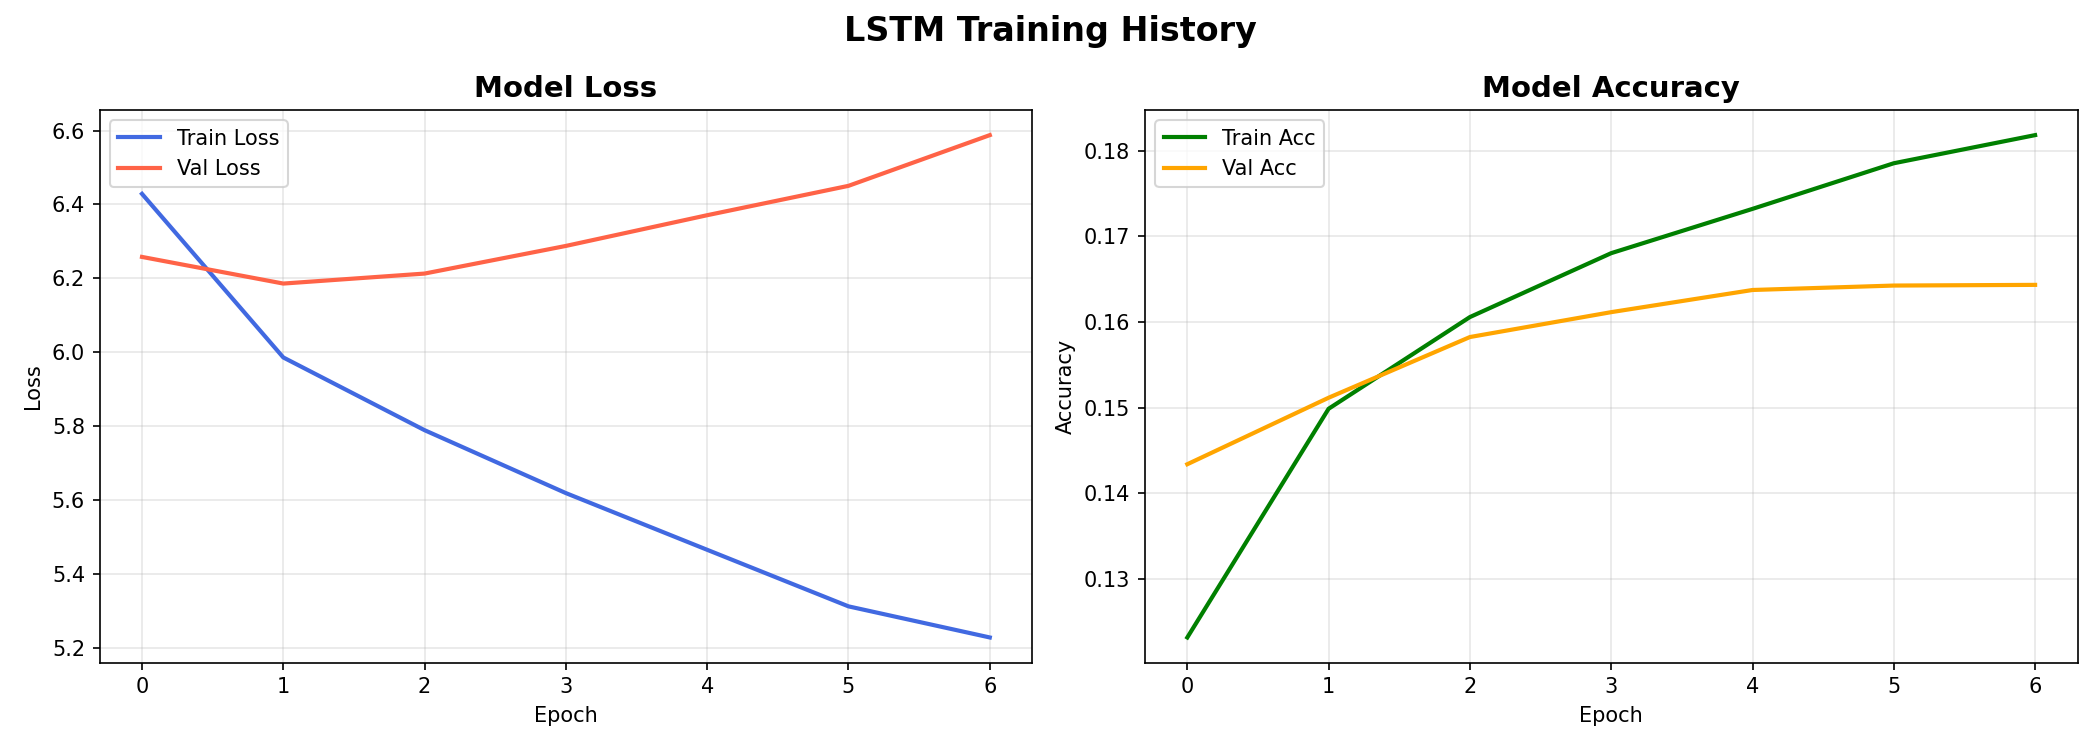
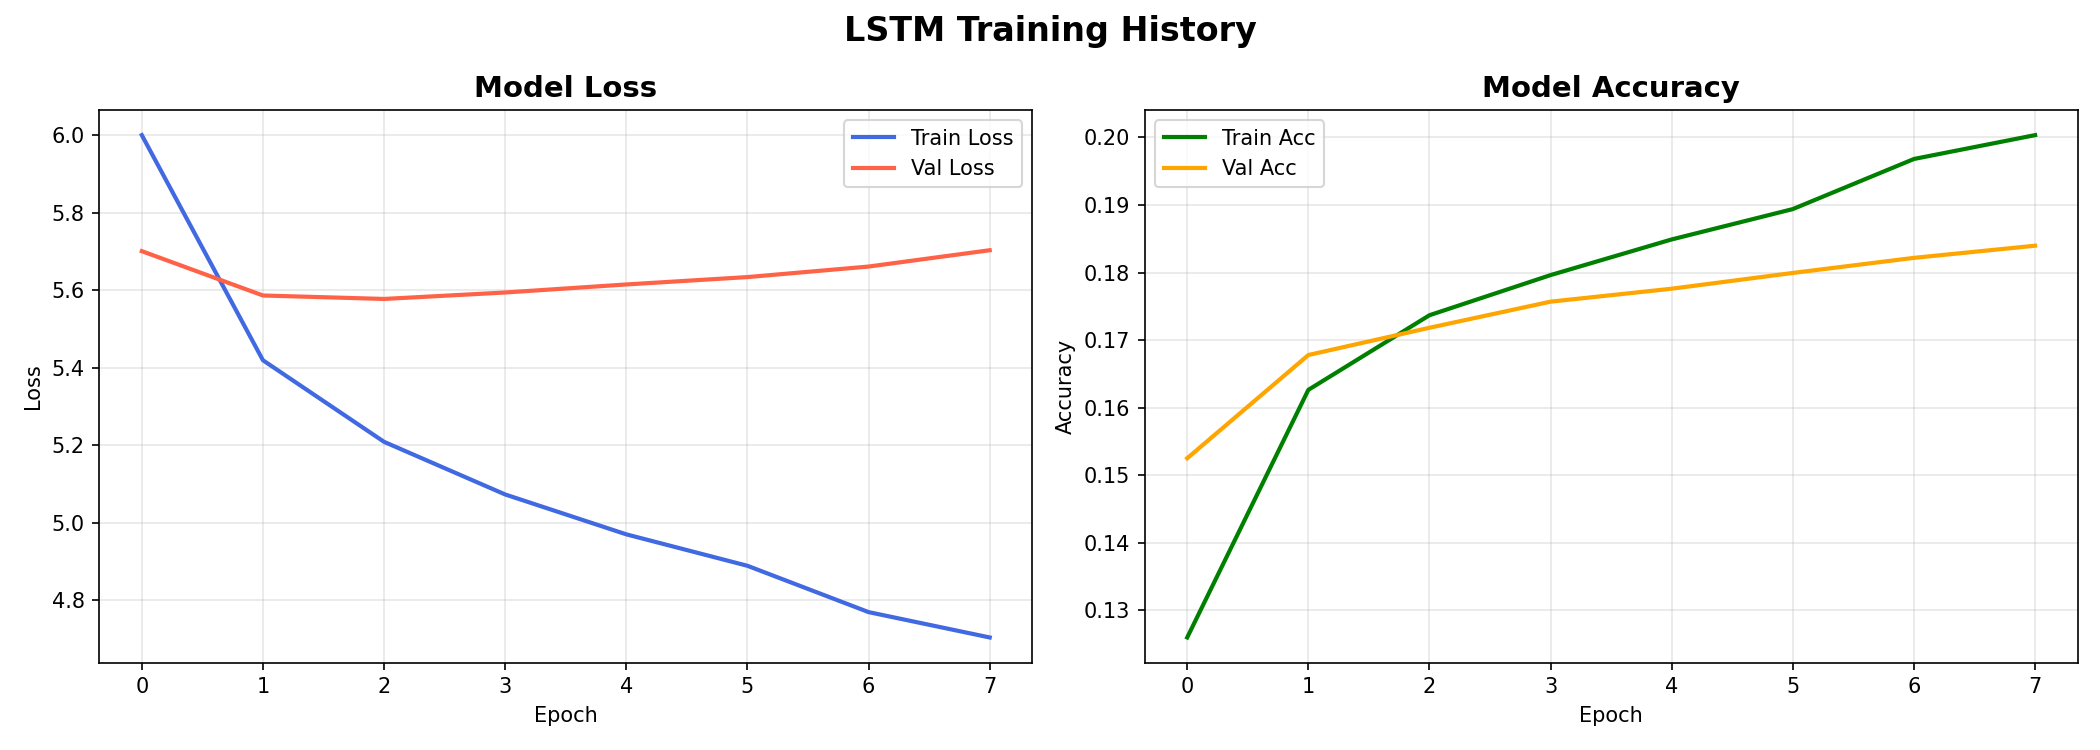
Improve conversational next-word predictions

diff --git a/templates/index.html b/templates/index.html
@@ -170,9 +170,9 @@ input[type="range"]::-webkit-slider-thumb{height:24px;width:12px;background:#812
         <div class="flex items-center gap-xs font-bold uppercase">
           <span class="material-symbols-outlined">reorder</span> Words to Generate
         </div>
-        <span id="numWordsBadge" class="bg-secondary-container text-on-secondary-container px-xs border-[2px] border-on-background font-label-sm">5</span>
+        <span id="numWordsBadge" class="bg-secondary-container text-on-secondary-container px-xs border-[2px] border-on-background font-label-sm">1</span>
       </div>
-      <input id="numWords" class="my-sm" max="10" min="1" step="1" type="range" value="5"/>
+      <input id="numWords" class="my-sm" max="10" min="1" step="1" type="range" value="1"/>
       <div class="flex justify-between font-label-sm text-[10px] text-on-surface-variant uppercase">
         <span>Short</span><span>Long</span>
       </div>

diff --git a/build_mixed_corpus.py b/build_mixed_corpus.py
@@ -1,0 +1,135 @@
+"""
+Build a mixed WikiText + conversational corpus.
+
+This keeps the broad language knowledge from WikiText but boosts dialogue
+patterns so prompts like "hello how are" can produce conversational continuations.
+
+Usage:
+    python build_mixed_corpus.py
+"""
+
+import argparse
+import os
+import random
+import re
+from collections import defaultdict
+
+from datasets import load_dataset
+
+
+WIKITEXT_PATH = os.path.join("data", "corpus.txt")
+OUTPUT_PATH = os.path.join("data", "mixed_corpus.txt")
+CONVERSATION_DATASET = "pixelsandpointers/better_daily_dialog"
+
+
+COMMON_DIALOGUE_LINES = [
+    "hello how are you",
+    "hello how are you doing",
+    "hello how are you doing today",
+    "hi how are you",
+    "hi how are you doing",
+    "hey how are you",
+    "hey how are you doing",
+    "how are you",
+    "how are you doing",
+    "how are you today",
+    "how are things going",
+    "i am fine thank you",
+    "i am doing well thank you",
+    "nice to meet you",
+    "good morning how are you",
+    "good evening how are you",
+]
+
+
+def normalize_text(text):
+    text = str(text).replace("’", "'").replace("“", '"').replace("”", '"')
+    text = re.sub(r"\s+", " ", text).strip()
+    return text
+
+
+def load_wikitext_lines(path, max_lines, seed):
+    if not os.path.exists(path):
+        raise FileNotFoundError("Missing data/corpus.txt. Run `python download_dataset.py` first.")
+
+    lines = []
+    with open(path, "r", encoding="utf-8") as corpus_file:
+        for line in corpus_file:
+            text = normalize_text(line)
+            if text:
+                lines.append(text)
+
+    random.Random(seed).shuffle(lines)
+    return lines[:max_lines]
+
+
+def load_dialogue_lines(repeat):
+    rows = []
+    for split in ["train", "validation", "test"]:
+        dataset = load_dataset(CONVERSATION_DATASET, split=split)
+        rows.extend(dataset)
+
+    dialogue_turns = defaultdict(list)
+    utterances = []
+    for row in rows:
+        utterance = normalize_text(row["utterance"])
+        if not utterance:
+            continue
+
+        utterances.append(utterance)
+        dialogue_turns[row["dialog_id"]].append(utterance)
+
+    dialogue_lines = []
+    for turns in dialogue_turns.values():
+        if turns:
+            dialogue_lines.append(" ".join(turns))
+
+    boosted = []
+    for _ in range(repeat):
+        boosted.extend(utterances)
+        boosted.extend(dialogue_lines)
+
+    for _ in range(max(50, repeat * 50)):
+        boosted.extend(COMMON_DIALOGUE_LINES)
+
+    return boosted
+
+
+def parse_args():
+    parser = argparse.ArgumentParser(description="Build a mixed training corpus.")
+    parser.add_argument("--wikitext-path", default=WIKITEXT_PATH)
+    parser.add_argument("--output", default=OUTPUT_PATH)
+    parser.add_argument("--wiki-lines", type=int, default=180000)
+    parser.add_argument("--dialogue-repeat", type=int, default=8)
+    parser.add_argument("--seed", type=int, default=42)
+    return parser.parse_args()
+
+
+def main():
+    args = parse_args()
+    random.seed(args.seed)
+
+    print("Loading WikiText sample...")
+    wiki_lines = load_wikitext_lines(args.wikitext_path, args.wiki_lines, args.seed)
+    print(f"WikiText lines: {len(wiki_lines):,}")
+
+    print(f"Loading conversational dataset: {CONVERSATION_DATASET}...")
+    dialogue_lines = load_dialogue_lines(args.dialogue_repeat)
+    print(f"Boosted dialogue lines: {len(dialogue_lines):,}")
+
+    all_lines = wiki_lines + dialogue_lines
+    random.shuffle(all_lines)
+
+    output_dir = os.path.dirname(args.output)
+    if output_dir:
+        os.makedirs(output_dir, exist_ok=True)
+
+    with open(args.output, "w", encoding="utf-8") as output_file:
+        for line in all_lines:
+            output_file.write(line + "\n")
+
+    print(f"Done. Wrote {len(all_lines):,} lines to {args.output}.")
+
+
+if __name__ == "__main__":
+    main()

diff --git a/train_model.py b/train_model.py
@@ -11,10 +11,12 @@ Optional environment variables:
     SEQ_LENGTH=20
     MAX_TRAINING_SEQUENCES=250000
     VALIDATION_SPLIT=0.1
+    MIN_LINE_CHARS=1
     SHUFFLE_SEED=42
     EPOCHS=50
     BATCH_SIZE=128
     MODEL_DIR=models
+    TRAIN_VERBOSE=2
 """
 
 import json
@@ -42,8 +44,16 @@ EPOCHS = int(os.environ.get("EPOCHS", "50"))
 BATCH_SIZE = int(os.environ.get("BATCH_SIZE", "128"))
 EMBEDDING_DIM = int(os.environ.get("EMBEDDING_DIM", "128"))
 LSTM_UNITS = int(os.environ.get("LSTM_UNITS", "200"))
-MIN_LINE_CHARS = int(os.environ.get("MIN_LINE_CHARS", "50"))
+MIN_LINE_CHARS = int(os.environ.get("MIN_LINE_CHARS", "1"))
 SHUFFLE_SEED = int(os.environ.get("SHUFFLE_SEED", "42"))
+TRAIN_VERBOSE = int(os.environ.get("TRAIN_VERBOSE", "2"))
+
+physical_gpus = tf.config.list_physical_devices("GPU")
+for gpu in physical_gpus:
+    try:
+        tf.config.experimental.set_memory_growth(gpu, True)
+    except RuntimeError:
+        pass
 
 
 def load_corpus(path, min_line_chars):
@@ -253,7 +263,7 @@ def main():
         validation_data=validation_data,
         validation_steps=validation_steps,
         callbacks=callbacks,
-        verbose=1,
+        verbose=TRAIN_VERBOSE,
     )
 
     print("\nExporting model artifacts...")

diff --git a/app.py b/app.py
@@ -38,7 +38,7 @@ MODEL_DIR = os.path.join(os.path.dirname(__file__), 'models')
 print("[*] Loading model artifacts...")
 
 # Load the trained LSTM model
-model = load_model(os.path.join(MODEL_DIR, 'lstm_model.keras'))
+model = load_model(os.path.join(MODEL_DIR, 'lstm_model.keras'), compile=False)
 print("  > Model loaded")
 
 # Load the tokenizer
@@ -192,7 +192,7 @@ def predict():
         if not text:
             return jsonify({'error': 'Text cannot be empty'}), 400
 
-        num_words = min(int(data.get('num_words', 5)), 20)  # Cap at 20
+        num_words = min(int(data.get('num_words', 1)), 20)  # Cap at 20
         temperature = max(0.1, min(float(data.get('temperature', 0.8)), 2.0))  # Clamp 0.1–2.0
 
         # Get top predictions for the immediate next word

diff --git a/README.md b/README.md
@@ -41,7 +41,16 @@ python eda_analysis.py
 
 This creates plots in `eda_output/`.
 
-### 4. Train the model
+### 4. Build the mixed corpus
+
+```bash
+python build_mixed_corpus.py
+```
+
+This creates `data/mixed_corpus.txt` by mixing WikiText with boosted
+DailyDialog-style conversational text.
+
+### 5. Train the model
 
 ```bash
 python train_model.py
@@ -57,10 +66,10 @@ This creates:
 Useful PowerShell knobs:
 
 ```powershell
-$env:MAX_TRAINING_SEQUENCES="100000"; $env:EPOCHS="10"; python train_model.py
+$env:CORPUS_PATH="data/mixed_corpus.txt"; $env:MAX_TRAINING_SEQUENCES="600000"; python train_model.py
 ```
 
-### 5. Plot training history
+### 6. Plot training history
 
 ```bash
 python plot_training.py
@@ -68,14 +77,14 @@ python plot_training.py
 
 This creates `eda_output/08_training_curves.png`.
 
-### 6. Copy EDA charts to the web app
+### 7. Copy EDA charts to the web app
 
 ```powershell
 New-Item -ItemType Directory -Force -Path static\eda
 Copy-Item eda_output\*.png static\eda -Force
 ```
 
-### 7. Run the app
+### 8. Run the app
 
 ```bash
 python app.py
@@ -108,15 +117,16 @@ Returns the saved training metadata.
 
 ## Current Training Run
 
-- Corpus lines: `798,784`
-- Raw words: `82,254,211`
+- Corpus: WikiText-103 + `pixelsandpointers/better_daily_dialog`
+- Corpus lines: `1,099,176`
 - Vocabulary limit: `10,000`
 - Sequence length: `20`
-- Training sequences: `225,000`
-- Validation sequences: `25,000`
-- Epochs trained: `7`
-- Final train accuracy: `0.1818`
-- Final validation accuracy: `0.1643`
+- Training sequences: `540,000`
+- Validation sequences: `60,000`
+- Epochs trained: `8`
+- Final train accuracy: `0.2003`
+- Final validation accuracy: `0.1840`
+- Example: `hello how are` predicts `you`
 
 ## Interview Summary
 
@@ -130,6 +140,7 @@ Flask API with a real-time prediction UI and an EDA dashboard.
 
 ```text
 app.py                    # Flask backend
+build_mixed_corpus.py     # WikiText + conversation corpus builder
 download_dataset.py       # Corpus downloader
 eda_analysis.py           # EDA script for plots 1-7
 plot_training.py          # Training history plot